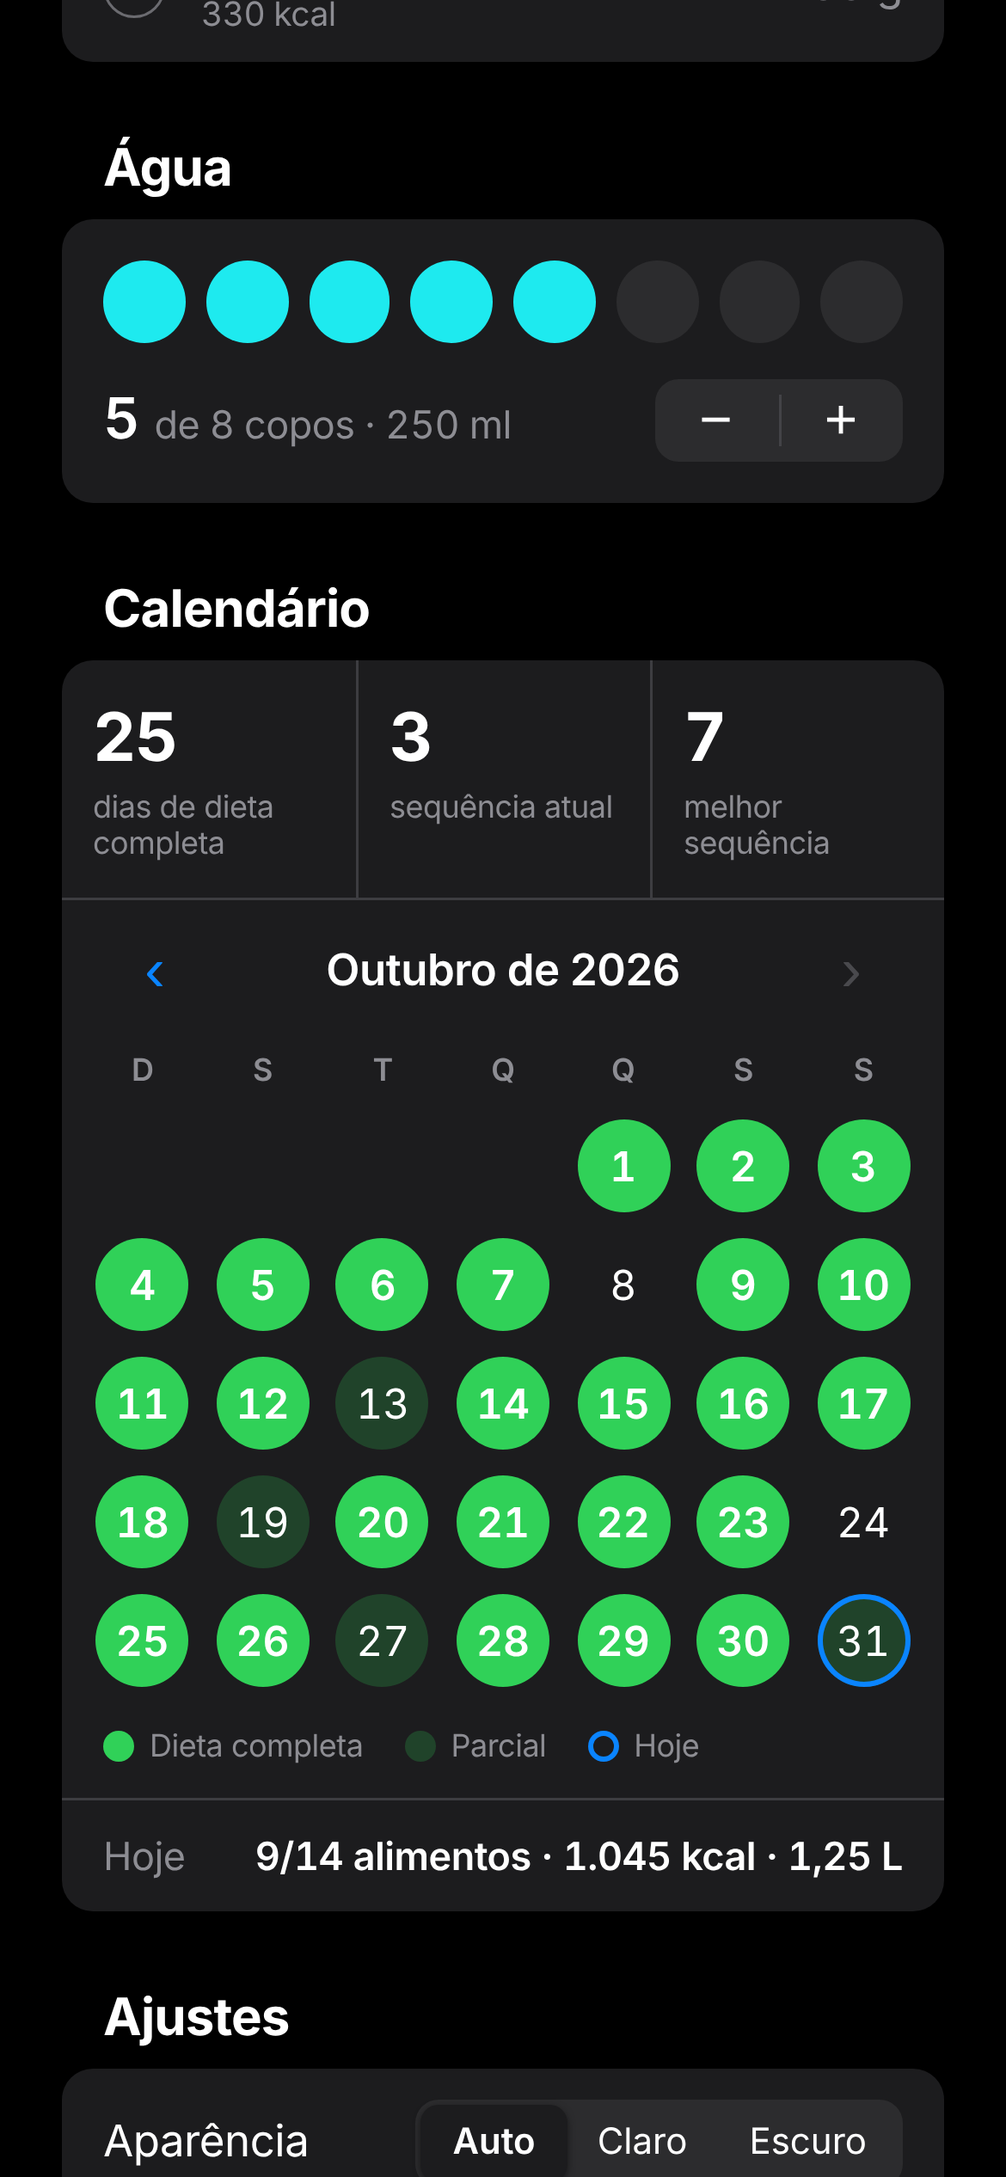
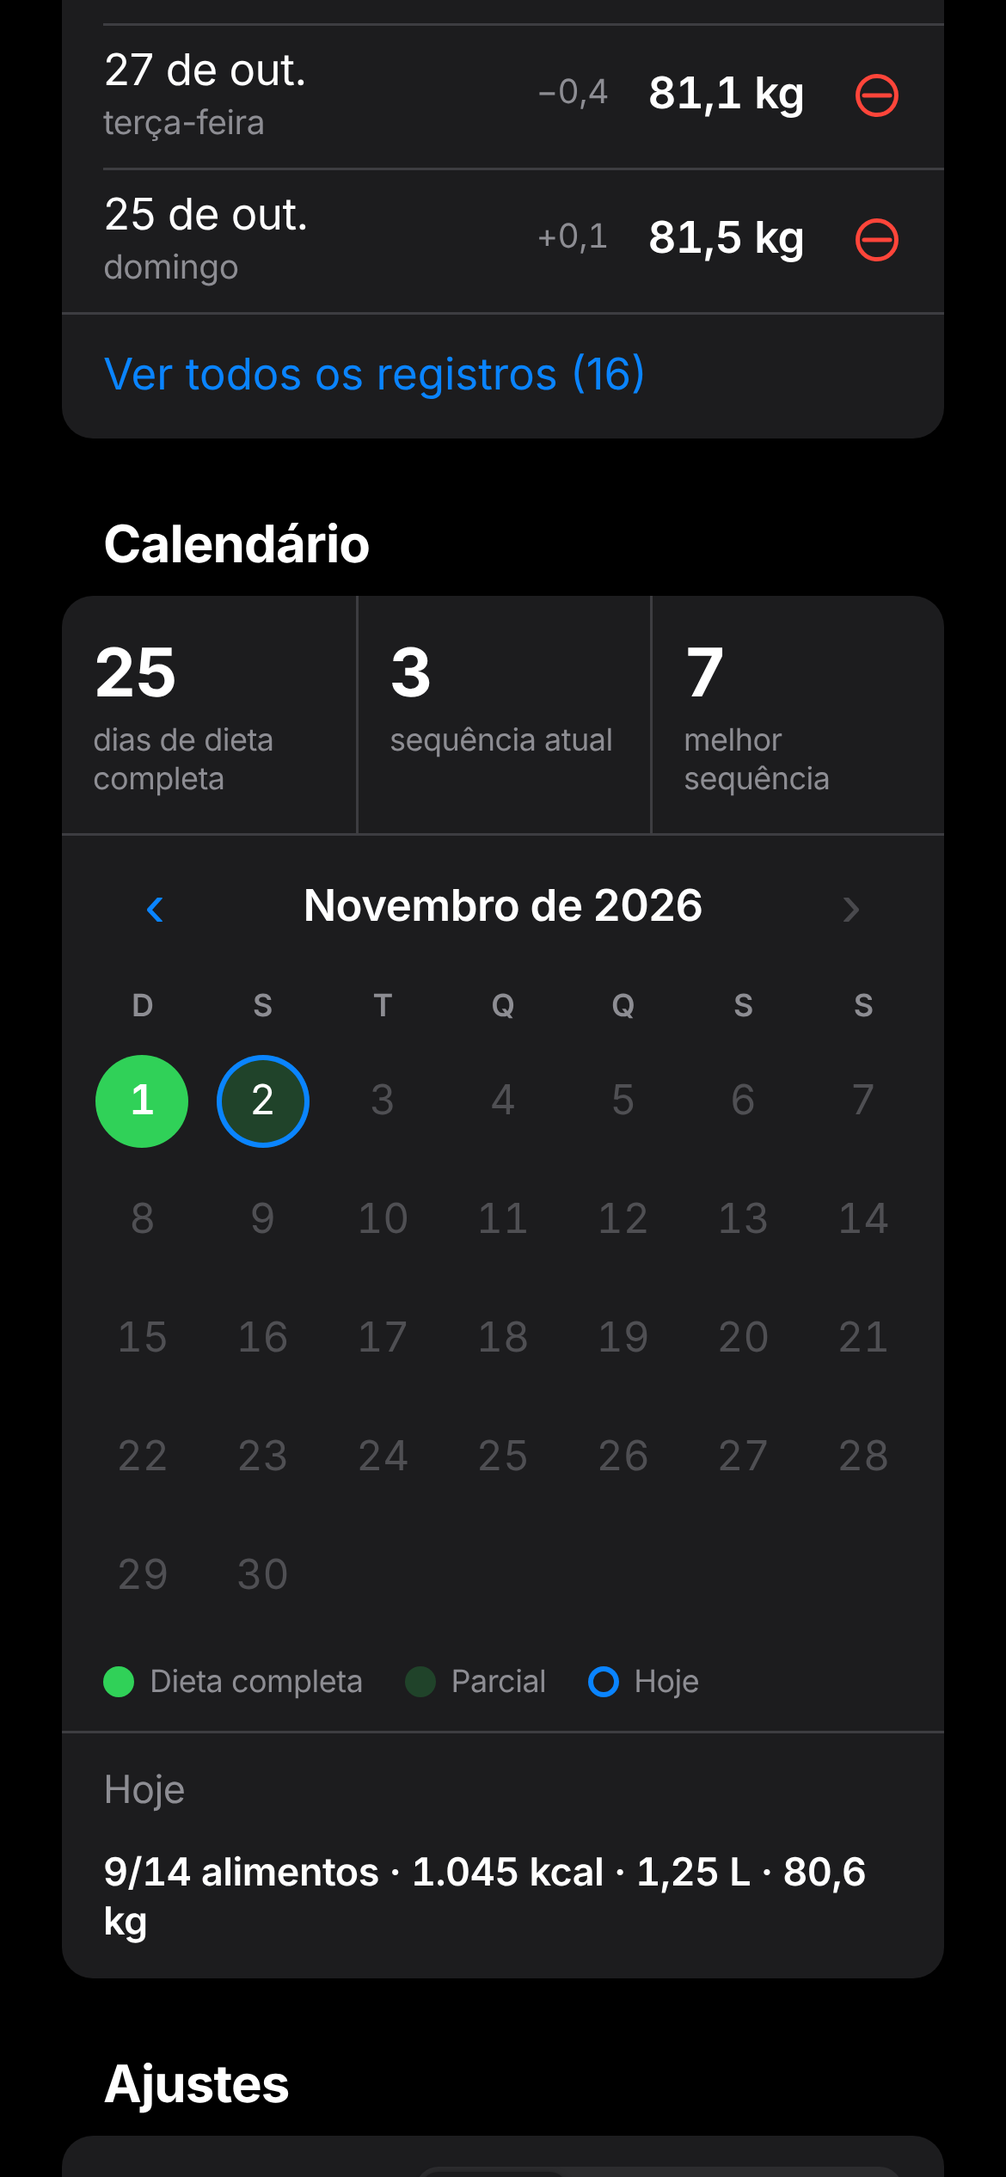
Registro de peso com gráfico, meta e IMC
Claude-Session: https://claude.ai/code/session_01JVQJzkvcUbrdB8wrf2Fsfo

diff --git a/index.html b/index.html
@@ -16,16 +16,16 @@
 /* Layout: lista agrupada estilo iOS — título grande, anéis, calorias, refeições, água, calendário, ajustes; editor em folha cheia */
 :root{
   --bg:#f2f2f7; --card:#ffffff; --fg:#000000; --muted:#8a8a8e; --sep:rgba(60,60,67,.18);
-  --blue:#007aff; --green:#34c759; --orange:#ff9500; --red:#ff3b30; --fill:#e5e5ea; --on-accent:#ffffff;
+  --blue:#007aff; --green:#34c759; --orange:#ff9500; --red:#ff3b30; --purple:#af52de; --fill:#e5e5ea; --on-accent:#ffffff;
   --r1:#fa114f; --r2:#92e82a; --r3:#1eaaef; --ringbg:.18; --shadow:rgba(0,0,0,.15);
   --font:-apple-system,BlinkMacSystemFont,"SF Pro Text","SF Pro Display","Helvetica Neue",Roboto,"Segoe UI",system-ui,sans-serif;
 }
 @media (prefers-color-scheme:dark){:root:not([data-theme="light"]){
   --bg:#000000; --card:#1c1c1e; --fg:#ffffff; --muted:#8d8d93; --sep:rgba(84,84,88,.6);
-  --blue:#0a84ff; --green:#30d158; --orange:#ff9f0a; --red:#ff453a; --fill:#2c2c2e; --r3:#1eeaef; --shadow:rgba(0,0,0,.5); color-scheme:dark}}
+  --blue:#0a84ff; --green:#30d158; --orange:#ff9f0a; --red:#ff453a; --purple:#bf5af2; --fill:#2c2c2e; --r3:#1eeaef; --shadow:rgba(0,0,0,.5); color-scheme:dark}}
 :root[data-theme="dark"]{
   --bg:#000000; --card:#1c1c1e; --fg:#ffffff; --muted:#8d8d93; --sep:rgba(84,84,88,.6);
-  --blue:#0a84ff; --green:#30d158; --orange:#ff9f0a; --red:#ff453a; --fill:#2c2c2e; --r3:#1eeaef; --shadow:rgba(0,0,0,.5); color-scheme:dark}
+  --blue:#0a84ff; --green:#30d158; --orange:#ff9f0a; --red:#ff453a; --purple:#bf5af2; --fill:#2c2c2e; --r3:#1eeaef; --shadow:rgba(0,0,0,.5); color-scheme:dark}
 :root[data-theme="light"]{color-scheme:light}
 *{box-sizing:border-box}
 html,body{background:var(--bg)}
@@ -174,6 +174,45 @@ button.setrow span:last-child{color:var(--muted)}
 .ed-total{font-size:15px;color:var(--muted);padding:0 16px;margin:0}
 .ed-total b{color:var(--fg);font-variant-numeric:tabular-nums}
 .ed-err{color:var(--red);font-size:15px;padding:0 16px;margin:0}
+/* peso */
+.wt-when{font-size:15px;color:var(--muted);white-space:nowrap}
+.wt-head{display:flex;justify-content:space-between;align-items:flex-end;gap:12px;flex-wrap:wrap;padding:16px;border-bottom:.5px solid var(--sep)}
+.wt-big{font-size:40px;font-weight:700;letter-spacing:-.03em;font-variant-numeric:tabular-nums;color:var(--purple);line-height:1.05}
+.wt-big span{font-size:17px;font-weight:500;color:var(--muted);letter-spacing:0;margin-left:4px}
+.wt-bmi{text-align:right;display:flex;flex-direction:column;gap:2px}
+.wt-bmi b{font-size:17px;font-weight:600;font-variant-numeric:tabular-nums}
+.wt-bmi span{font-size:13px;color:var(--muted)}
+.st b small{font-size:13px;color:var(--muted);font-weight:500;letter-spacing:0}
+button.st{background:none;border:0;font:inherit;color:inherit;text-align:left;cursor:pointer}
+.st .cta{font-size:17px;font-weight:600;color:var(--blue);line-height:31px}
+.wt-chart{padding:12px 16px 10px;border-bottom:.5px solid var(--sep);display:flex;flex-direction:column;gap:10px}
+.wt-chart .seg{align-self:flex-start}
+#wtSvg{width:100%;height:170px;display:block;overflow:visible}
+#wtSvg text{fill:var(--muted);font-size:11px;font-family:var(--font)}
+#wtSvg .grid{stroke:var(--sep);stroke-width:1}
+#wtSvg .line{fill:none;stroke:var(--purple);stroke-width:2.5;stroke-linejoin:round;stroke-linecap:round}
+#wtSvg .dot{fill:var(--purple)}
+#wtSvg .end{fill:var(--purple);stroke:var(--card);stroke-width:2.5}
+#wtSvg .goal{stroke:var(--green);stroke-width:1.5;stroke-dasharray:5 4}
+#wtSvg text.goal-l{fill:var(--green);font-weight:600}
+.wt-empty{font-size:15px;color:var(--muted);padding:28px 8px;text-align:center;margin:0}
+.wt-form{display:grid;grid-template-columns:1.25fr 1fr;gap:10px 8px;align-items:end;padding:12px 16px;border-bottom:.5px solid var(--sep)}
+.wt-form input[type=date]{min-height:38px;min-width:0;padding-right:6px}
+.btn-fill{border:0;background:var(--blue);color:var(--on-accent);font:inherit;font-weight:600;border-radius:8px;padding:0 14px;height:40px;cursor:pointer;flex:none}
+.wt-form .btn-fill,.wt-form .wt-msg{grid-column:1/-1}
+.wt-msg{width:100%;font-size:13px;margin:0;color:var(--red)}
+.wt-msg.ok{color:var(--green)}
+.wh-row{display:flex;align-items:center;gap:10px;padding:8px 8px 8px 16px;min-height:52px;position:relative}
+.wh-row + .wh-row::before{content:"";position:absolute;top:0;left:16px;right:0;height:.5px;background:var(--sep)}
+.wh-date{flex:1;min-width:0;display:flex;flex-direction:column;gap:1px}
+.wh-date small{font-size:13px;color:var(--muted)}
+.wh-diff{font-size:13px;color:var(--muted);font-variant-numeric:tabular-nums;white-space:nowrap}
+.wh-kg{font-weight:600;font-variant-numeric:tabular-nums;white-space:nowrap;min-width:66px;text-align:right}
+.wh-row .del{align-self:center}
+.wh-confirm{border:0;background:var(--red);color:var(--on-accent);font:inherit;font-size:14px;font-weight:600;border-radius:8px;padding:7px 12px;cursor:pointer}
+.wh-more{display:block;width:100%;border:0;border-top:.5px solid var(--sep);background:none;font:inherit;color:var(--blue);padding:13px 16px;text-align:left;cursor:pointer}
+.unit-in{display:flex;align-items:center;gap:6px;color:var(--muted)}
+.unit-in input{width:84px;text-align:right;background:var(--fill);border:0;border-radius:8px;padding:8px 10px;font:inherit;color:var(--fg)}
 @media (prefers-reduced-motion:reduce){*{transition:none!important}}
 </style>
 </head>
@@ -234,6 +273,37 @@ button.setrow span:last-child{color:var(--muted)}
     </div>
   </section>
 
+  <section aria-label="Peso">
+    <div class="mealhead"><h2>Peso</h2><span class="wt-when" id="wtWhen"></span></div>
+    <div class="card">
+      <div class="wt-head">
+        <div class="wt-big" id="wtNow">—<span>kg</span></div>
+        <div class="wt-bmi" id="wtBmi" hidden></div>
+      </div>
+      <div class="stats">
+        <div class="st"><b id="wsStart">—</b><span id="wsStartL">início</span></div>
+        <div class="st"><b id="wsDiff">—</b><span>variação</span></div>
+        <button class="st" type="button" id="wsGoalBtn"><b id="wsGoal">—</b><span id="wsGoalL">meta de peso</span></button>
+      </div>
+      <div class="wt-chart">
+        <div class="seg" id="wtRange">
+          <button type="button" data-r="30">30 dias</button>
+          <button type="button" data-r="90">90 dias</button>
+          <button type="button" data-r="0">Tudo</button>
+        </div>
+        <svg id="wtSvg" role="img" aria-label="Gráfico da evolução do peso"></svg>
+        <p class="wt-empty" id="wtEmpty" hidden></p>
+      </div>
+      <form class="wt-form" id="wtForm" novalidate>
+        <div class="fld d"><label for="wtDate">Data</label><input type="date" id="wtDate"></div>
+        <div class="fld kg"><label for="wtKg">Peso (kg)</label><input id="wtKg" inputmode="decimal" placeholder="Ex.: 78,5" autocomplete="off"></div>
+        <button class="btn-fill" type="submit" id="wtSave">Salvar</button>
+        <p class="wt-msg" id="wtMsg" hidden></p>
+      </form>
+      <div id="wtHist"></div>
+    </div>
+  </section>
+
   <section aria-label="Calendário da dieta">
     <div class="mealhead"><h2>Calendário</h2></div>
     <div class="card">
@@ -267,6 +337,14 @@ button.setrow span:last-child{color:var(--muted)}
           <button type="button" data-v="light">Claro</button>
           <button type="button" data-v="dark">Escuro</button>
         </div>
+      </div>
+      <div class="setrow">
+        <label for="goalIn">Meta de peso</label>
+        <div class="unit-in"><input id="goalIn" inputmode="decimal" placeholder="—" autocomplete="off"><span>kg</span></div>
+      </div>
+      <div class="setrow">
+        <label for="hIn">Altura (para o IMC)</label>
+        <div class="unit-in"><input id="hIn" inputmode="numeric" placeholder="—" autocomplete="off"><span>cm</span></div>
       </div>
       <button class="setrow" id="editBtn2" type="button"><span>Editar dieta</span><span>›</span></button>
     </div>
@@ -414,7 +492,7 @@ function renderCal(){
   document.getElementById("stBest").textContent=s.best;
   const k=selKey||tk,rec=db[k]||{n:0,t:totalItems(),k:0,w:0},dt=new Date(k+"T12:00:00");
   const label=k===tk?"Hoje":dt.toLocaleDateString("pt-BR",{weekday:"short",day:"numeric",month:"short"});
-  document.getElementById("detail").innerHTML=`<span>${label}</span><b>${rec.n||0}/${rec.t||0} alimentos · ${nf(rec.k||0)} kcal · ${((rec.w||0)*0.25).toLocaleString("pt-BR")} L</b>`;
+  document.getElementById("detail").innerHTML=`<span>${label}</span><b>${rec.n||0}/${rec.t||0} alimentos · ${nf(rec.k||0)} kcal · ${((rec.w||0)*0.25).toLocaleString("pt-BR")} L${wt.e[k]!=null?` · ${kgf(wt.e[k])} kg`:""}</b>`;
 }
 
 function render(){
@@ -446,6 +524,7 @@ function render(){
   document.getElementById("kBar").style.width=(kp?Math.min(100,d.k/kp*100):0)+"%";
   document.getElementById("kDone").hidden=!isFull(d);
   renderCal();
+  renderWeight();
 }
 
 // editor
@@ -510,6 +589,118 @@ document.getElementById("edSave").onclick=()=>{
 };
 document.getElementById("editBtn").onclick=openEditor;
 document.getElementById("editBtn2").onclick=openEditor;
+
+// peso
+const WKEY="dieta-tiago-peso";
+let wt={e:{},goal:null,h:null};
+try{wt=Object.assign(wt,JSON.parse(localStorage.getItem(WKEY))||{});wt.e=wt.e||{}}catch(e){}
+const saveW=()=>{try{localStorage.setItem(WKEY,JSON.stringify(wt))}catch(e){}};
+const kgf=n=>(+n).toLocaleString("pt-BR",{minimumFractionDigits:1,maximumFractionDigits:1});
+const parseNum=s=>{const v=parseFloat(String(s).replace(",",".").trim());return isFinite(v)?v:NaN};
+const fmtD=(k,o)=>new Date(k+"T12:00:00").toLocaleDateString("pt-BR",o);
+const wEntries=()=>Object.keys(wt.e).sort().map(d=>({d,kg:wt.e[d]}));
+const bmiCat=b=>b<18.5?"Abaixo do peso":b<25?"Peso normal":b<30?"Sobrepeso":"Obesidade";
+let wRange=30,wShowAll=false,wPendingDel=null;
+const wDate=document.getElementById("wtDate"),wKg=document.getElementById("wtKg"),wMsg=document.getElementById("wtMsg");
+const goalIn=document.getElementById("goalIn"),hIn=document.getElementById("hIn");
+
+function renderWeight(){
+  const E=wEntries(),first=E[0],last=E[E.length-1],tk=dkey(new Date());
+  document.getElementById("wtNow").innerHTML=`${last?kgf(last.kg):"—"}<span>kg</span>`;
+  document.getElementById("wtWhen").textContent=!last?"Nenhum registro":last.d===tk?"Registrado hoje":`Último: ${fmtD(last.d,{day:"numeric",month:"short"})}`;
+  const bmi=document.getElementById("wtBmi");
+  if(last&&wt.h){const b=last.kg/Math.pow(wt.h/100,2);bmi.hidden=false;bmi.innerHTML=`<b>IMC ${b.toLocaleString("pt-BR",{minimumFractionDigits:1,maximumFractionDigits:1})}</b><span>${bmiCat(b)}</span>`}else bmi.hidden=true;
+  document.getElementById("wsStart").innerHTML=first?`${kgf(first.kg)}<small> kg</small>`:"—";
+  document.getElementById("wsStartL").textContent=first?`início · ${fmtD(first.d,{day:"numeric",month:"short"})}`:"início";
+  const dv=document.getElementById("wsDiff");dv.style.color="";
+  if(E.length>1){const diff=Math.round((last.kg-first.kg)*10)/10;
+    dv.innerHTML=`${diff>0?"+":diff<0?"−":""}${kgf(Math.abs(diff))}<small> kg</small>`;
+    if(wt.goal!=null&&diff!==0&&wt.goal!==first.kg)dv.style.color=Math.sign(wt.goal-first.kg)===Math.sign(diff)?"var(--green)":"var(--orange)";}
+  else dv.textContent="—";
+  const g=document.getElementById("wsGoal"),gl=document.getElementById("wsGoalL");
+  if(wt.goal!=null){g.innerHTML=`${kgf(wt.goal)}<small> kg</small>`;
+    const left=last?Math.round(Math.abs(wt.goal-last.kg)*10)/10:null;
+    gl.textContent=left==null?"meta":left===0?"meta atingida":`faltam ${kgf(left)} kg`}
+  else{g.innerHTML=`<span class="cta">Definir</span>`;gl.textContent="meta de peso"}
+  wDate.max=tk;if(!wDate.value||wDate.value>tk)wDate.value=tk;
+  syncForm();
+  document.querySelectorAll("#wtRange button").forEach(b=>b.classList.toggle("on",+b.dataset.r===wRange));
+  drawChart(E);renderHist(E);
+  if(document.activeElement!==goalIn)goalIn.value=wt.goal!=null?kgf(wt.goal):"";
+  if(document.activeElement!==hIn)hIn.value=wt.h||"";
+}
+function syncForm(){
+  const ex=wt.e[wDate.value];
+  document.getElementById("wtSave").textContent=ex!=null?"Atualizar":"Salvar";
+  wKg.placeholder=ex!=null?kgf(ex):"Ex.: 78,5";
+}
+function drawChart(E){
+  const svg=document.getElementById("wtSvg"),empty=document.getElementById("wtEmpty");
+  let pts=E.map(e=>({t:new Date(e.d+"T12:00:00").getTime(),kg:e.kg,d:e.d}));
+  if(wRange){const from=new Date();from.setHours(0,0,0,0);from.setDate(from.getDate()-wRange+1);pts=pts.filter(p=>p.t>=from.getTime())}
+  if(pts.length<2){
+    svg.innerHTML="";svg.style.display="none";empty.hidden=false;
+    empty.textContent=!E.length?"Registre seu peso abaixo para começar o gráfico.":E.length===1?"Registre mais um dia para ver a evolução.":"Poucos registros neste período. Escolha um período maior.";
+    return}
+  svg.style.display="";empty.hidden=true;
+  const W=Math.max(220,svg.clientWidth||320),H=170,pl=34,pr=8,pt=10,pb=22;
+  svg.setAttribute("viewBox",`0 0 ${W} ${H}`);
+  let lo=Math.min(...pts.map(p=>p.kg)),hi=Math.max(...pts.map(p=>p.kg));
+  if(hi-lo<1){const m=(hi+lo)/2;lo=m-0.5;hi=m+0.5}
+  const span=hi-lo,step=[0.5,1,2,5,10,20,50].find(s=>span/s<=4)||50;
+  lo=Math.floor((lo-span*0.1)/step)*step;hi=Math.ceil((hi+span*0.1)/step)*step;
+  const t0=pts[0].t,ts=Math.max(pts[pts.length-1].t-t0,864e5);
+  const X=t=>pl+(t-t0)/ts*(W-pl-pr),Y=v=>pt+(hi-v)/(hi-lo)*(H-pt-pb);
+  let s=`<defs><linearGradient id="wtFill" x1="0" y1="0" x2="0" y2="1"><stop offset="0" style="stop-color:var(--purple);stop-opacity:.28"/><stop offset="1" style="stop-color:var(--purple);stop-opacity:0"/></linearGradient></defs>`;
+  for(let v=lo;v<=hi+1e-9;v+=step){const y=Y(v).toFixed(1);s+=`<line class="grid" x1="${pl}" x2="${W-pr}" y1="${y}" y2="${y}"/><text x="${pl-6}" y="${(+y+3.5).toFixed(1)}" text-anchor="end">${step<1?kgf(v):Math.round(v)}</text>`}
+  if(wt.goal!=null&&wt.goal>=lo&&wt.goal<=hi){const y=Y(wt.goal).toFixed(1);s+=`<line class="goal" x1="${pl}" x2="${W-pr}" y1="${y}" y2="${y}"/><text class="goal-l" x="${W-pr}" y="${(+y-5).toFixed(1)}" text-anchor="end">meta</text>`}
+  const line=pts.map((p,i)=>`${i?"L":"M"}${X(p.t).toFixed(1)} ${Y(p.kg).toFixed(1)}`).join(" ");
+  s+=`<path d="${line} L${X(pts[pts.length-1].t).toFixed(1)} ${H-pb} L${X(t0).toFixed(1)} ${H-pb} Z" fill="url(#wtFill)"/><path class="line" d="${line}"/>`;
+  if(pts.length<=40)pts.slice(0,-1).forEach(p=>{s+=`<circle class="dot" cx="${X(p.t).toFixed(1)}" cy="${Y(p.kg).toFixed(1)}" r="2.5"/>`});
+  const lp=pts[pts.length-1];s+=`<circle class="end" cx="${X(lp.t).toFixed(1)}" cy="${Y(lp.kg).toFixed(1)}" r="5"/>`;
+  const fd=d=>fmtD(d,{day:"numeric",month:"short"}).replace(" de "," ").replace(".","");
+  s+=`<text x="${pl}" y="${H-5}">${fd(pts[0].d)}</text><text x="${W-pr}" y="${H-5}" text-anchor="end">${fd(lp.d)}</text>`;
+  svg.innerHTML=s;
+}
+function renderHist(E){
+  const el=document.getElementById("wtHist");
+  const items=E.map((e,i)=>({...e,diff:i?Math.round((e.kg-E[i-1].kg)*10)/10:null})).reverse();
+  const show=wShowAll?items:items.slice(0,5),y=new Date().getFullYear();
+  el.innerHTML=show.map(e=>{const dt=new Date(e.d+"T12:00:00");
+    const label=fmtD(e.d,dt.getFullYear()===y?{day:"numeric",month:"short"}:{day:"numeric",month:"short",year:"numeric"});
+    const diff=e.diff==null?"":e.diff===0?"±0":`${e.diff>0?"+":"−"}${kgf(Math.abs(e.diff))}`;
+    const act=wPendingDel===e.d?`<button class="wh-confirm" type="button" data-del="${e.d}">Apagar</button>`:`<button class="del" type="button" data-ask="${e.d}" aria-label="Apagar registro de ${label}">${trash}</button>`;
+    return `<div class="wh-row"><div class="wh-date">${label}<small>${dt.toLocaleDateString("pt-BR",{weekday:"long"})}</small></div><span class="wh-diff">${diff}</span><span class="wh-kg">${kgf(e.kg)} kg</span>${act}</div>`}).join("")
+    +(items.length>5?`<button class="wh-more" type="button" data-more="1">${wShowAll?"Mostrar menos":`Ver todos os registros (${items.length})`}</button>`:"");
+}
+document.getElementById("wtHist").addEventListener("click",e=>{
+  const b=e.target.closest("button");if(!b)return;
+  if(b.dataset.ask){wPendingDel=b.dataset.ask;renderWeight();return}
+  if(b.dataset.del){delete wt.e[b.dataset.del];wPendingDel=null;saveW();render();return}
+  if(b.dataset.more){wShowAll=!wShowAll;renderWeight()}
+});
+document.getElementById("wtRange").addEventListener("click",e=>{const b=e.target.closest("button");if(!b)return;wRange=+b.dataset.r;renderWeight()});
+wDate.addEventListener("change",()=>{wMsg.hidden=true;syncForm()});
+let wMsgTimer;
+document.getElementById("wtForm").addEventListener("submit",e=>{
+  e.preventDefault();clearTimeout(wMsgTimer);
+  const kg=parseNum(wKg.value),d=wDate.value||dkey(new Date());
+  const fail=t=>{wMsg.hidden=false;wMsg.classList.remove("ok");wMsg.textContent=t};
+  if(!(kg>=20&&kg<=400))return fail("Digite um peso entre 20 e 400 kg, por exemplo 78,5.");
+  if(d>dkey(new Date()))return fail("Escolha uma data até hoje.");
+  const upd=wt.e[d]!=null;wt.e[d]=Math.round(kg*10)/10;saveW();wKg.value="";wPendingDel=null;render();
+  wMsg.hidden=false;wMsg.classList.add("ok");
+  wMsg.textContent=`${upd?"Peso atualizado":"Peso salvo"}: ${kgf(wt.e[d])} kg em ${fmtD(d,{day:"numeric",month:"long"})}.`;
+  wMsgTimer=setTimeout(()=>{wMsg.hidden=true},3500);
+});
+document.getElementById("wsGoalBtn").onclick=()=>{goalIn.scrollIntoView({behavior:"smooth",block:"center"});setTimeout(()=>goalIn.focus(),350)};
+goalIn.addEventListener("change",()=>{const v=goalIn.value.trim();
+  if(!v)wt.goal=null;else{const n=parseNum(v);if(n>=20&&n<=400)wt.goal=Math.round(n*10)/10}
+  goalIn.value=wt.goal!=null?kgf(wt.goal):"";saveW();render()});
+hIn.addEventListener("change",()=>{const v=hIn.value.trim();
+  if(!v)wt.h=null;else{let n=parseNum(v);if(n>0&&n<3)n*=100;if(n>=100&&n<=250)wt.h=Math.round(n)}
+  hIn.value=wt.h||"";saveW();render()});
+let wResize;addEventListener("resize",()=>{clearTimeout(wResize);wResize=setTimeout(()=>drawChart(wEntries()),150)});
 
 applyTheme();buildMeals();commit();
 setInterval(()=>{if(dkey(new Date())!==today)render()},60000);

diff --git a/sw.js b/sw.js
@@ -1,4 +1,4 @@
-const CACHE="dieta-v5";
+const CACHE="dieta-v6";
 const FILES=["./","index.html","manifest.json","icon-192.png","icon-512.png","icon-maskable-512.png","apple-touch-icon.png"];
 self.addEventListener("install",e=>{e.waitUntil(caches.open(CACHE).then(c=>c.addAll(FILES.map(f=>new Request(f,{cache:"reload"})))));self.skipWaiting()});
 self.addEventListener("activate",e=>{e.waitUntil(caches.keys().then(k=>Promise.all(k.filter(x=>x!==CACHE).map(x=>caches.delete(x)))).then(()=>self.clients.claim()))});

diff --git a/README.md b/README.md
@@ -9,6 +9,7 @@ App de checklist diário da dieta, feito como **PWA** (Progressive Web App): ins
 | | Modo claro | Modo escuro |
 |---|:---:|:---:|
 | **Início** | <img src="screenshots/light-inicio.png" width="250" alt="Tela inicial no modo claro"> | <img src="screenshots/dark-inicio.png" width="250" alt="Tela inicial no modo escuro"> |
+| **Peso** | <img src="screenshots/light-peso.png" width="250" alt="Registro de peso no modo claro"> | <img src="screenshots/dark-peso.png" width="250" alt="Registro de peso no modo escuro"> |
 | **Calendário** | <img src="screenshots/light-calendario.png" width="250" alt="Calendário no modo claro"> | <img src="screenshots/dark-calendario.png" width="250" alt="Calendário no modo escuro"> |
 | **Editar dieta** | <img src="screenshots/light-editar.png" width="250" alt="Editor da dieta no modo claro"> | <img src="screenshots/dark-editar.png" width="250" alt="Editor da dieta no modo escuro"> |
 
@@ -18,6 +19,7 @@ App de checklist diário da dieta, feito como **PWA** (Progressive Web App): ins
 - **Anéis de progresso** para refeições, alimentos e água
 - **Calorias do dia**: total consumido x planejado e quanto cada refeição somou
 - **Controle de água** em copos de 250 ml, com meta ajustável
+- **Registro de peso** com gráfico de evolução (30 dias, 90 dias ou tudo), meta de peso, variação desde o início, IMC e histórico
 - **Calendário** com os dias de dieta completa, sequência atual e melhor sequência
 - **Dieta personalizável**: adicionar, editar e remover refeições, alimentos, quantidades e kcal
 - **Modo claro, escuro ou automático** (segue o tema do celular)
@@ -38,6 +40,6 @@ App de checklist diário da dieta, feito como **PWA** (Progressive Web App): ins
 
 ## Privacidade
 
-Não há servidor nem conta. Todos os dados (checks, dieta e histórico) ficam salvos apenas no celular de quem usa.
+Não há servidor nem conta. Todos os dados (checks, dieta, peso e histórico) ficam salvos apenas no celular de quem usa.
 
 > As calorias são aproximadas (Tabela TACO e rótulos comuns) e podem ser ajustadas no editor.
